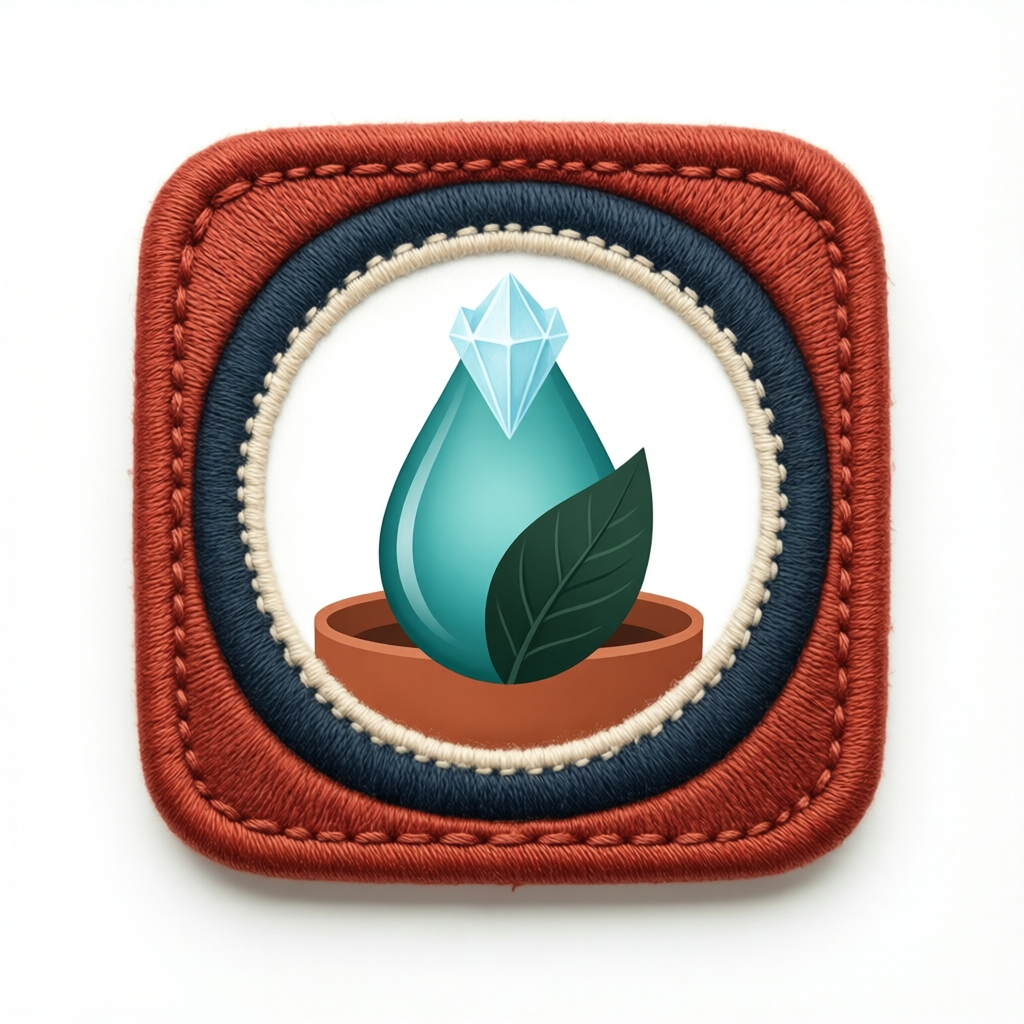
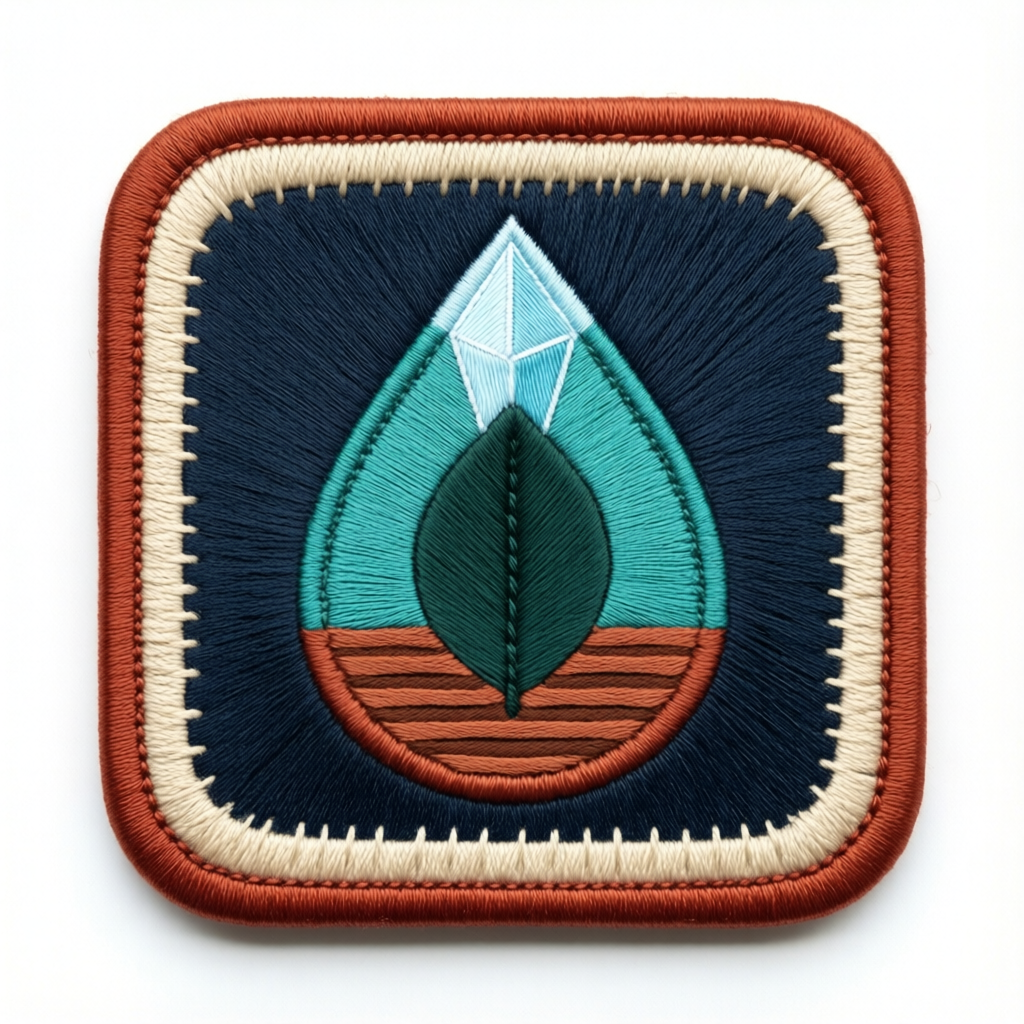
art-direction: reinforce Arcadia patch textile design

diff --git a/art-direction/habitat-patch-system.md b/art-direction/habitat-patch-system.md
@@ -121,11 +121,11 @@ Use **one shared negative prompt for every patch**, then append the short habita
 
 **Positive prompt**
 
-> A single softly rounded square Habitat Arcadia civic fabric badge, centered and fully visible in a square 1:1 reference image. Its fixed family frame uses an oxidized Mars-red outer border, a basalt-navy inner containment ring, and dust-cream stitch and edge details. The center contains one clear teal water droplet whose upper edge transitions into one pale ice-blue six-point crystal while its lower edge shelters exactly one deep algae-green leaf above one simple clay-brown terraced basin. The transition is graphic and stitched, not photoreal. The balanced motif is experimental, ecological, and legible at badge size, conveying practical stewardship of water, ice, and food systems. Tactile embroidery, woven cloth, slightly uneven stitching, softened edges, and restrained use marks make it useful rather than decorative. It is isolated front-on against a seamless uniform pure-white background under soft even diffuse light, with only a faint tight grounding shadow directly beneath the edge. No landscape scene, produce basket, clothing, hands, packaging, or recognizable text appears.
+> A single softly rounded square Habitat Arcadia civic fabric badge, centered and fully visible in a square 1:1 reference image. Its fixed family frame has one continuous oxidized Mars-red outer border, a basalt-navy inner containment field, and one dust-cream stitch ring with dust-cream edge details. The center contains one clear teal water-droplet shape whose upper edge transitions into one pale ice-blue six-point crystal while its lower edge shelters exactly one deep algae-green leaf above one simple clay-brown terraced basin. The transition is graphic and stitched, not photoreal. Every part of the central motif is made from flat thread-filled embroidery and woven applique integrated into the badge: dense visible stitches fill the droplet, crystal, leaf, and basin; thick satin-stitch outlines and matte thread replace smooth surfaces, highlights, bevels, or three-dimensional icon shapes. The white belongs only to the external background, never to the inner patch field. The balanced motif is experimental, ecological, and legible at badge size, conveying practical stewardship of water, ice, and food systems. Tactile embroidery, woven cloth, slightly uneven practical stitching, softened thread, and restrained use marks make it a useful field-issued civic patch rather than a decorative logo. It is isolated front-on against a seamless uniform pure-white background under soft even diffuse light, with only a faint tight grounding shadow directly beneath the edge. No landscape scene, produce basket, clothing, hands, packaging, or recognizable text appears.
 
 **Append to shared negative prompt**
 
-> recycling logo, environmental NGO logo, planet Earth, globe, forest landscape, farm landscape, mountain scene, snowflake pattern covering badge, multiple leaves, multiple droplets, fruit, vegetables, wheat sheaf, photoreal water, glossy droplet
+> recycling logo, environmental NGO logo, planet Earth, globe, forest landscape, farm landscape, mountain scene, snowflake pattern covering badge, multiple leaves, multiple droplets, fruit, vegetables, wheat sheaf, photoreal water, glossy droplet, glossy icon, smooth vector logo, enamel badge, plastic applique, gel droplet, glass droplet, jewel, three-dimensional logo, 3D render, beveled icon, raised plastic symbol, smooth highlight, white inner panel, white central field, paper badge, cardboard badge
 
 ## Review and selection
 
